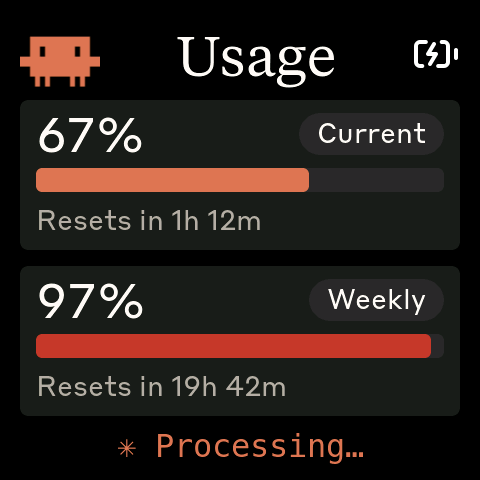
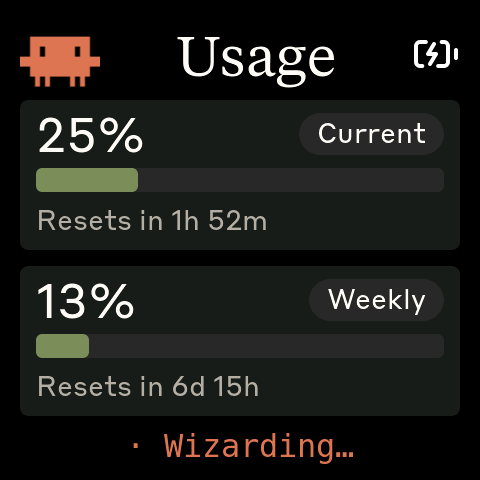
Source both weekly percentages from the OAuth usage endpoint
The all-models percentage came from the rate-limit header (a 2-decimal
fraction, "0.12") while the scoped percentages came from the usage endpoint
(a rounded integer). Two quantizations of the same window: a real 12.6/12.4
pair rendered as 12/12 on the card and could disagree with the settings UI,
which shows these same integers — the card looked like it was repeating one
number on both faces.

When scoped limits are present the daemons now re-base "w" on the endpoint's
weekly_all percent, so both faces of the card share one source and one
rounding. Plans without a scoped limit keep the header-derived value
untouched (nothing to be inconsistent with), and a failed endpoint lookup
still falls back to the header. Verified on hardware: Weekly 13% / Fable
12%, matching the endpoint exactly where it previously showed 12/12.

diff --git a/daemon/tests/test_fable.py b/daemon/tests/test_fable.py
@@ -4,7 +4,7 @@
 Scoped weekly percents (today only Fable; historically Opus/Sonnet had their
 own buckets) come from the OAuth usage endpoint's limits[] array (kind
 "weekly_scoped" with a model scope), NOT from the /v1/messages rate-limit
-headers — see fetch_scoped_weekly's docstring. The contract under test is the
+headers — see fetch_weekly_limits's docstring. The contract under test is the
 omit-when-absent gate and the labeled-array shape:
 
   - scoped limits present -> payload carries "ws":[{"n":<label>,"p":<0-100>},...]
@@ -202,7 +202,7 @@ def test_usage_endpoint_failure_omits_ws_but_keeps_payload(daemon, failure):
 
 
 # ---------------------------------------------------------------------------
-# fetch_scoped_weekly unit cases
+# fetch_weekly_limits unit cases
 # ---------------------------------------------------------------------------
 
 @pytest.mark.parametrize("daemon", DAEMONS)
@@ -212,7 +212,7 @@ def test_zero_percent_is_a_legitimate_value(daemon):
     body = _usage_json(scoped=({"name": "Fable", "percent": 0},))
     client = _mock_client(get_resp=_mock_response(json_data=body))
     with patch.object(daemon.httpx, "AsyncClient", return_value=client):
-        assert _run(daemon.fetch_scoped_weekly("fake-token")) == [{"n": "Fable", "p": 0}]
+        assert _run(daemon.fetch_weekly_limits("fake-token"))["scoped"] == [{"n": "Fable", "p": 0}]
 
 
 @pytest.mark.parametrize("daemon", DAEMONS)
@@ -220,7 +220,7 @@ def test_percent_clamps_to_0_100(daemon):
     body = _usage_json(scoped=({"name": "Fable", "percent": 140},))
     client = _mock_client(get_resp=_mock_response(json_data=body))
     with patch.object(daemon.httpx, "AsyncClient", return_value=client):
-        assert _run(daemon.fetch_scoped_weekly("fake-token")) == [{"n": "Fable", "p": 100}]
+        assert _run(daemon.fetch_weekly_limits("fake-token"))["scoped"] == [{"n": "Fable", "p": 100}]
 
 
 @pytest.mark.parametrize("daemon", DAEMONS)
@@ -231,7 +231,7 @@ def test_requires_model_scope(daemon):
                         "scope": {"model": None, "surface": "cowork"}}]}
     client = _mock_client(get_resp=_mock_response(json_data=body))
     with patch.object(daemon.httpx, "AsyncClient", return_value=client):
-        assert _run(daemon.fetch_scoped_weekly("fake-token")) is None
+        assert _run(daemon.fetch_weekly_limits("fake-token"))["scoped"] == []
 
 
 @pytest.mark.parametrize("daemon", DAEMONS)
@@ -246,7 +246,7 @@ def test_label_falls_back_to_model_id(daemon):
     ]}
     client = _mock_client(get_resp=_mock_response(json_data=body))
     with patch.object(daemon.httpx, "AsyncClient", return_value=client):
-        assert _run(daemon.fetch_scoped_weekly("fake-token")) == [
+        assert _run(daemon.fetch_weekly_limits("fake-token"))["scoped"] == [
             {"n": "claude-sonnet-5", "p": 40}
         ]
 
@@ -256,7 +256,8 @@ def test_malformed_body_returns_none(daemon):
     for body in (None, [], {}, {"limits": None}, {"limits": ["nope"]}):
         client = _mock_client(get_resp=_mock_response(json_data=body))
         with patch.object(daemon.httpx, "AsyncClient", return_value=client):
-            assert _run(daemon.fetch_scoped_weekly("fake-token")) is None, f"body={body!r}"
+            got = _run(daemon.fetch_weekly_limits("fake-token"))
+            assert got is None or got["scoped"] == [], f"body={body!r}"
 
 
 # ---------------------------------------------------------------------------
@@ -280,3 +281,64 @@ def test_wire_shape_with_scoped_limits(daemon):
     wire = json.dumps(payload, separators=(",", ":"))
     assert '"ws":[{"n":"Fable","p":71},{"n":"Sonnet","p":40}]' in wire
     assert len(wire.encode()) < 512  # firmware BLE_BUF_SIZE
+
+
+# ---------------------------------------------------------------------------
+# Single-source rule: both weekly numbers share the endpoint's rounding
+# ---------------------------------------------------------------------------
+
+@pytest.mark.parametrize("daemon", DAEMONS)
+def test_weekly_all_rebased_on_endpoint_when_scoped_present(daemon):
+    """The header quantizes to 2 decimals ("0.12") and the endpoint to a
+    rounded integer, so a true 12.6/12.4 pair reads as 12/12 from the header
+    but 13/12 from the endpoint. With a scoped limit on screen beside it, "w"
+    must come from the endpoint too — otherwise the two faces of one card are
+    quantized differently and can disagree with the settings UI."""
+    now = time.time()
+    headers = dict(_pro_headers(now))
+    headers["anthropic-ratelimit-unified-7d-utilization"] = "0.12"  # -> 12 via the header
+    body = _usage_json(scoped=({"name": "Fable", "percent": 12},))
+    body["limits"][1]["percent"] = 13                               # weekly_all -> 13
+    client = _mock_client(
+        post_resp=_mock_response(headers=headers),
+        get_resp=_mock_response(json_data=body),
+    )
+    with patch.object(daemon.httpx, "AsyncClient", return_value=client):
+        payload = _run(daemon.poll_api("fake-token"))
+    assert payload["w"] == 13, "all-models % must come from the endpoint, not the header"
+    assert payload["ws"] == [{"n": "Fable", "p": 12}]
+
+
+@pytest.mark.parametrize("daemon", DAEMONS)
+def test_weekly_all_keeps_header_value_without_scoped_limits(daemon):
+    """No scoped limit -> nothing to be inconsistent with, so the long-standing
+    header-derived "w" is left exactly as it was (no behavior change for plans
+    without a Fable allowance)."""
+    now = time.time()
+    headers = dict(_pro_headers(now))
+    headers["anthropic-ratelimit-unified-7d-utilization"] = "0.12"
+    body = _usage_json(scoped=())
+    body["limits"][1]["percent"] = 13
+    client = _mock_client(
+        post_resp=_mock_response(headers=headers),
+        get_resp=_mock_response(json_data=body),
+    )
+    with patch.object(daemon.httpx, "AsyncClient", return_value=client):
+        payload = _run(daemon.poll_api("fake-token"))
+    assert payload["w"] == 12
+    assert "ws" not in payload
+
+
+@pytest.mark.parametrize("daemon", DAEMONS)
+def test_weekly_all_falls_back_to_header_when_endpoint_fails(daemon):
+    now = time.time()
+    headers = dict(_pro_headers(now))
+    headers["anthropic-ratelimit-unified-7d-utilization"] = "0.12"
+    client = _mock_client(
+        post_resp=_mock_response(headers=headers),
+        get_exc=httpx.ConnectError("Connection refused"),
+    )
+    with patch.object(daemon.httpx, "AsyncClient", return_value=client):
+        payload = _run(daemon.poll_api("fake-token"))
+    assert payload["w"] == 12
+    assert "ws" not in payload

diff --git a/daemon/claude_usage_daemon.py b/daemon/claude_usage_daemon.py
@@ -402,9 +402,18 @@ def add_clock_fields(payload: dict) -> None:
     payload["tf"] = tf
 
 
-async def fetch_scoped_weekly(token: str) -> list[dict] | None:
-    """Every weekly scoped-model limit as [{"n": <label>, "p": <0-100>}, ...],
-    or None when the account has none (or the lookup failed).
+async def fetch_weekly_limits(token: str) -> dict | None:
+    """The weekly window as the usage endpoint reports it, or None on failure:
+
+        {"all": <0-100>|None, "scoped": [{"n": <label>, "p": <0-100>}, ...]}
+
+    Both numbers come from this ONE source on purpose. The rate-limit headers
+    quantize differently (a 2-decimal fraction, e.g. "0.12") than this
+    endpoint (a rounded integer), so taking all-models from the header and
+    scoped from here can show the same underlying pair as 12/12 when it is
+    really 12.2/11.7 — or disagree with the settings UI, which renders these
+    same integers. poll_api therefore prefers "all" over the header value and
+    only falls back to the header when this lookup fails.
 
     These numbers are NOT in the /v1/messages rate-limit headers the poll
     reads: the scoped headers (anthropic-ratelimit-unified-7d_oi-*) only
@@ -435,13 +444,22 @@ async def fetch_scoped_weekly(token: str) -> list[dict] | None:
     limits = data.get("limits") if isinstance(data, dict) else None
     if not isinstance(limits, list):
         return None
+
+    def _pct(value):
+        try:
+            return max(0, min(100, int(round(float(value)))))
+        except (TypeError, ValueError):
+            return None
+
+    weekly_all = None
     scoped = []
     for lim in limits:
-        if not (
-            isinstance(lim, dict)
-            and lim.get("kind") == "weekly_scoped"
-            and isinstance(lim.get("scope"), dict)
-        ):
+        if not isinstance(lim, dict):
+            continue
+        if lim.get("kind") == "weekly_all" and lim.get("scope") is None:
+            weekly_all = _pct(lim.get("percent"))
+            continue
+        if lim.get("kind") != "weekly_scoped" or not isinstance(lim.get("scope"), dict):
             continue
         model = lim["scope"].get("model")
         if not isinstance(model, dict):
@@ -449,22 +467,31 @@ async def fetch_scoped_weekly(token: str) -> list[dict] | None:
         name = model.get("display_name") or model.get("id")
         if not isinstance(name, str) or not name:
             continue
-        try:
-            pct = max(0, min(100, int(round(float(lim.get("percent"))))))
-        except (TypeError, ValueError):
+        pct = _pct(lim.get("percent"))
+        if pct is None:
             continue
         scoped.append({"n": name, "p": pct})
-    return scoped or None
+    return {"all": weekly_all, "scoped": scoped}
 
 
-async def add_scoped_weekly_field(payload: dict, token: str) -> None:
-    """Add "ws":[{"n","p"},...] to a Pro/Max payload when the account has
-    weekly scoped-model limits. Omitted entirely otherwise — the firmware
-    treats an absent key as "no scoped limits" and renders the classic
-    layout."""
-    scoped = await fetch_scoped_weekly(token)
-    if scoped:
-        payload["ws"] = scoped
+async def apply_weekly_limits(payload: dict, token: str) -> None:
+    """Fold the usage endpoint's weekly window into a Pro/Max payload.
+
+    Adds "ws":[{"n","p"},...] when the account has weekly scoped-model limits
+    (omitted entirely otherwise — the firmware treats an absent key as "no
+    scoped limits" and renders the classic layout), and overrides "w" with the
+    endpoint's all-models percent so both weekly numbers share one source and
+    one rounding. A failed lookup leaves the header-derived "w" in place.
+    """
+    limits = await fetch_weekly_limits(token)
+    if not limits:
+        return
+    if limits["scoped"]:
+        payload["ws"] = limits["scoped"]
+        # Only worth re-basing "w" when a scoped number sits beside it; on
+        # plans without one the header value is already self-consistent.
+        if limits["all"] is not None:
+            payload["w"] = limits["all"]
 
 
 async def poll_api(token: str) -> dict | None:
@@ -514,7 +541,7 @@ async def poll_api(token: str) -> dict | None:
             "acct": "pro",
             "ok": True,
         }
-        await add_scoped_weekly_field(payload, token)   # adds "ws" iff scoped weekly limits exist
+        await apply_weekly_limits(payload, token)   # adds "ws" iff scoped weekly limits exist
     else:
         reset_ts = hdr("anthropic-ratelimit-unified-overage-reset")
         payload = {

diff --git a/daemon/claude_usage_daemon_windows.py b/daemon/claude_usage_daemon_windows.py
@@ -184,9 +184,18 @@ def add_clock_fields(payload: dict) -> None:
     payload["tf"] = tf
 
 
-async def fetch_scoped_weekly(token: str) -> list[dict] | None:
-    """Every weekly scoped-model limit as [{"n": <label>, "p": <0-100>}, ...],
-    or None when the account has none (or the lookup failed).
+async def fetch_weekly_limits(token: str) -> dict | None:
+    """The weekly window as the usage endpoint reports it, or None on failure:
+
+        {"all": <0-100>|None, "scoped": [{"n": <label>, "p": <0-100>}, ...]}
+
+    Both numbers come from this ONE source on purpose. The rate-limit headers
+    quantize differently (a 2-decimal fraction, e.g. "0.12") than this
+    endpoint (a rounded integer), so taking all-models from the header and
+    scoped from here can show the same underlying pair as 12/12 when it is
+    really 12.2/11.7 — or disagree with the settings UI, which renders these
+    same integers. poll_api therefore prefers "all" over the header value and
+    only falls back to the header when this lookup fails.
 
     These numbers are NOT in the /v1/messages rate-limit headers the poll
     reads: the scoped headers (anthropic-ratelimit-unified-7d_oi-*) only
@@ -217,13 +226,22 @@ async def fetch_scoped_weekly(token: str) -> list[dict] | None:
     limits = data.get("limits") if isinstance(data, dict) else None
     if not isinstance(limits, list):
         return None
+
+    def _pct(value):
+        try:
+            return max(0, min(100, int(round(float(value)))))
+        except (TypeError, ValueError):
+            return None
+
+    weekly_all = None
     scoped = []
     for lim in limits:
-        if not (
-            isinstance(lim, dict)
-            and lim.get("kind") == "weekly_scoped"
-            and isinstance(lim.get("scope"), dict)
-        ):
+        if not isinstance(lim, dict):
+            continue
+        if lim.get("kind") == "weekly_all" and lim.get("scope") is None:
+            weekly_all = _pct(lim.get("percent"))
+            continue
+        if lim.get("kind") != "weekly_scoped" or not isinstance(lim.get("scope"), dict):
             continue
         model = lim["scope"].get("model")
         if not isinstance(model, dict):
@@ -231,22 +249,31 @@ async def fetch_scoped_weekly(token: str) -> list[dict] | None:
         name = model.get("display_name") or model.get("id")
         if not isinstance(name, str) or not name:
             continue
-        try:
-            pct = max(0, min(100, int(round(float(lim.get("percent"))))))
-        except (TypeError, ValueError):
+        pct = _pct(lim.get("percent"))
+        if pct is None:
             continue
         scoped.append({"n": name, "p": pct})
-    return scoped or None
+    return {"all": weekly_all, "scoped": scoped}
 
 
-async def add_scoped_weekly_field(payload: dict, token: str) -> None:
-    """Add "ws":[{"n","p"},...] to a Pro/Max payload when the account has
-    weekly scoped-model limits. Omitted entirely otherwise — the firmware
-    treats an absent key as "no scoped limits" and renders the classic
-    layout."""
-    scoped = await fetch_scoped_weekly(token)
-    if scoped:
-        payload["ws"] = scoped
+async def apply_weekly_limits(payload: dict, token: str) -> None:
+    """Fold the usage endpoint's weekly window into a Pro/Max payload.
+
+    Adds "ws":[{"n","p"},...] when the account has weekly scoped-model limits
+    (omitted entirely otherwise — the firmware treats an absent key as "no
+    scoped limits" and renders the classic layout), and overrides "w" with the
+    endpoint's all-models percent so both weekly numbers share one source and
+    one rounding. A failed lookup leaves the header-derived "w" in place.
+    """
+    limits = await fetch_weekly_limits(token)
+    if not limits:
+        return
+    if limits["scoped"]:
+        payload["ws"] = limits["scoped"]
+        # Only worth re-basing "w" when a scoped number sits beside it; on
+        # plans without one the header value is already self-consistent.
+        if limits["all"] is not None:
+            payload["w"] = limits["all"]
 
 
 async def poll_api(token: str) -> dict | None:
@@ -298,7 +325,7 @@ async def poll_api(token: str) -> dict | None:
             "acct": "pro",
             "ok": True,
         }
-        await add_scoped_weekly_field(payload, token)   # adds "ws" iff scoped weekly limits exist
+        await apply_weekly_limits(payload, token)   # adds "ws" iff scoped weekly limits exist
     else:
         reset_ts = hdr("anthropic-ratelimit-unified-overage-reset")
         payload = {

diff --git a/README.md b/README.md
@@ -227,7 +227,7 @@ JSON payload format (written to RX):
 
 Fields: `s` = session %, `sr` = session reset (minutes), `w` = weekly %, `wr` = weekly reset (minutes), `st` = status, `ok` = success flag.
 
-Optional fields (omitted when not applicable; the firmware treats absence as "feature off"): `ws` = weekly scoped-model limits for plans that meter specific models separately, as `[{"n":"Fable","p":75}, ...]` — one entry per scoped model, labeled with the API's own display name. They share the weekly reset, so no separate reset field is sent.
+Optional fields (omitted when not applicable; the firmware treats absence as "feature off"): `ws` = weekly scoped-model limits for plans that meter specific models separately, as `[{"n":"Fable","p":75}, ...]` — one entry per scoped model, labeled with the API's own display name. They share the weekly reset, so no separate reset field is sent. When `ws` is present, `w` is re-based on the same OAuth-usage source as the scoped percentages rather than the rate-limit header, so both weekly numbers carry identical rounding (the header is a 2-decimal fraction, the endpoint a rounded integer — mixing them can render a real 12.6/12.4 pair as 12/12).
 
 ## Recompiling fonts
 
